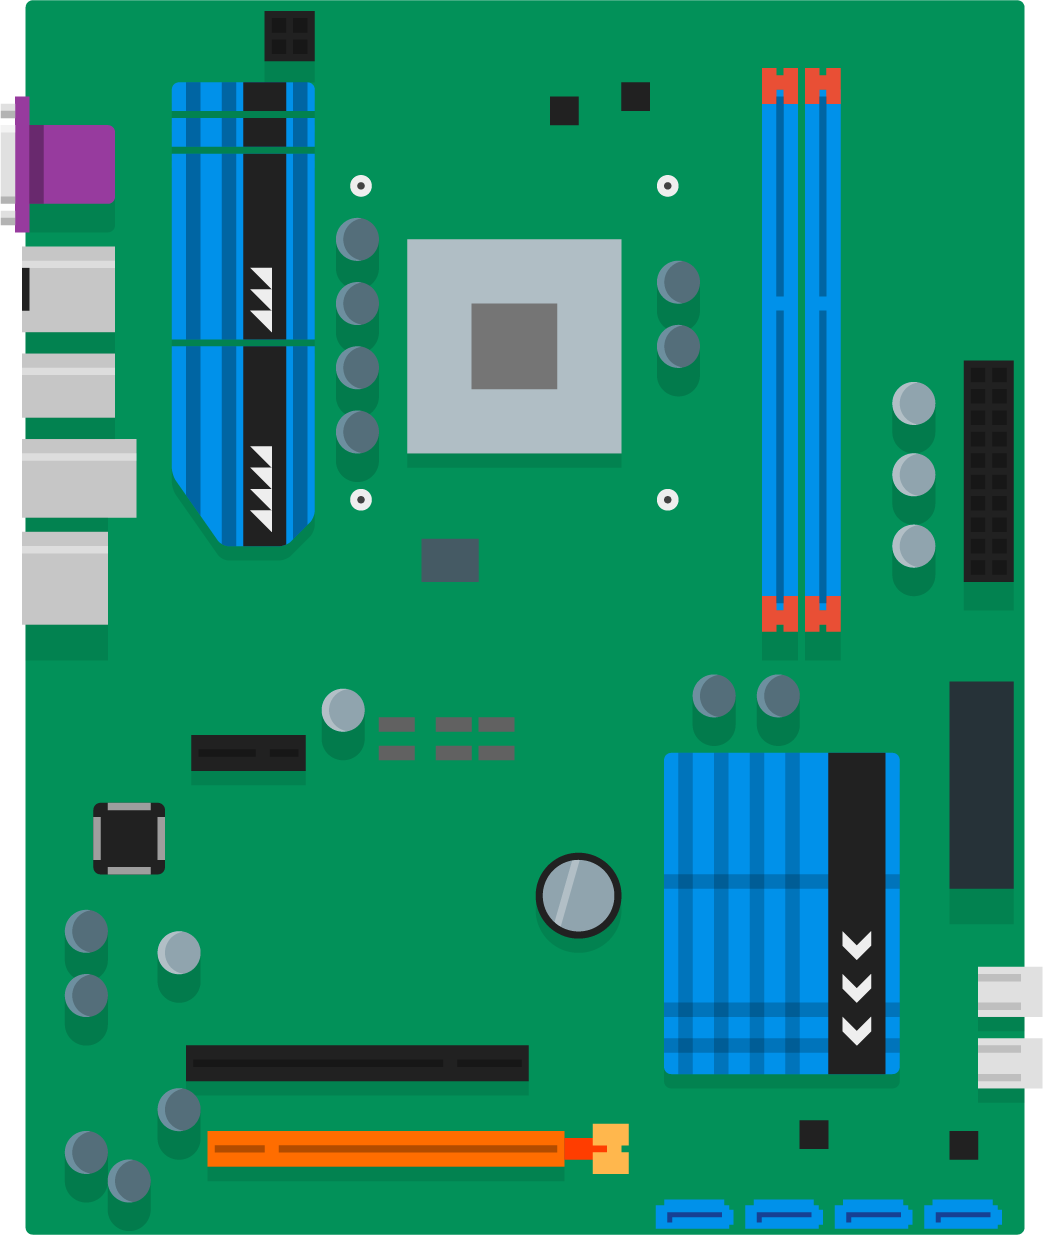
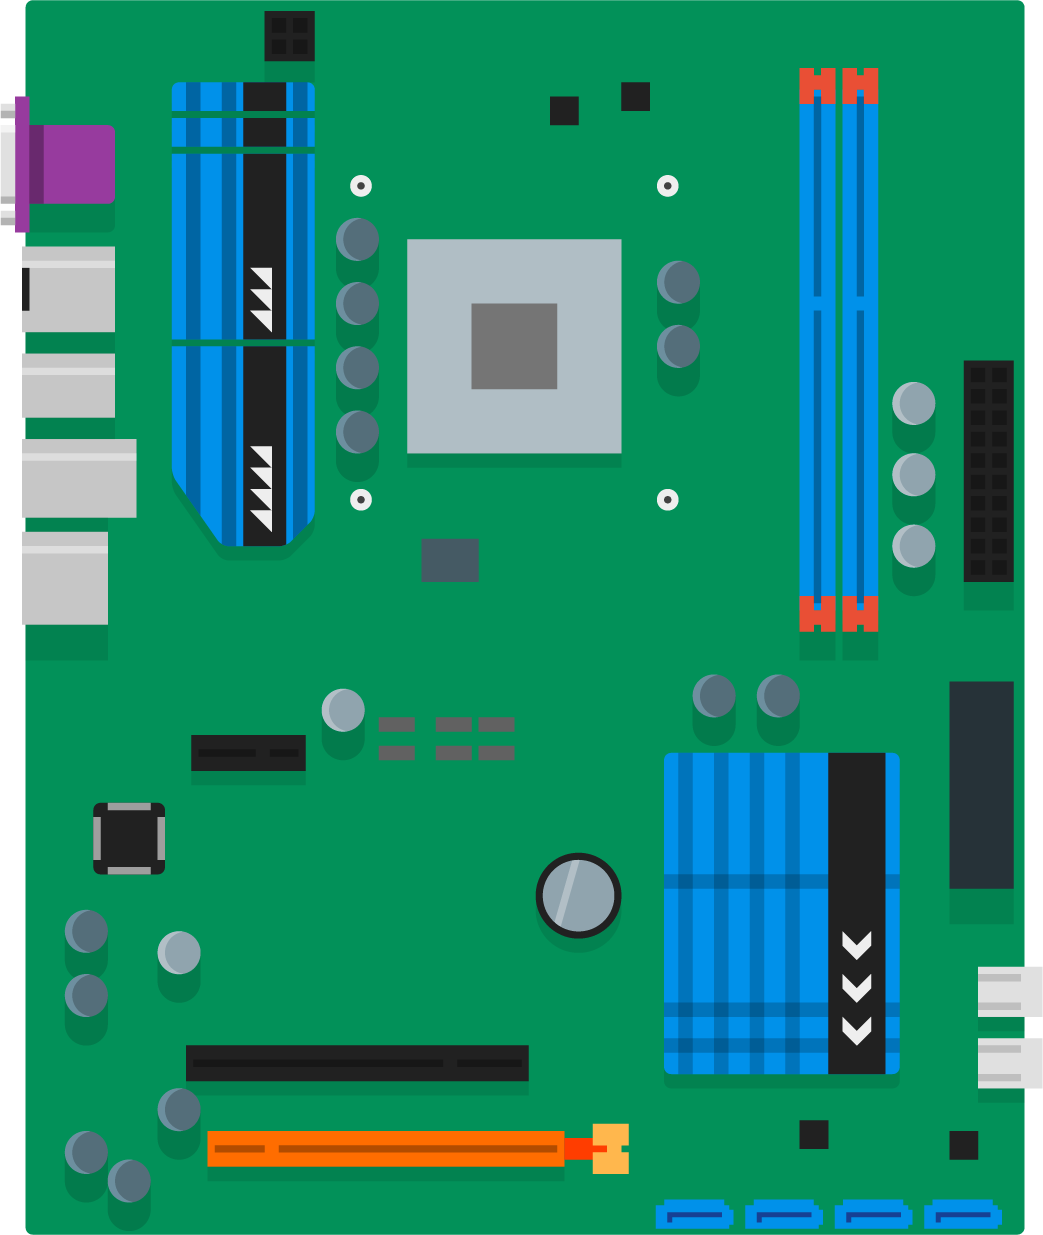
delete local storage sava zone, cooler zone

Changed region(s): [[0.7057, 0.0308, 0.8591, 0.5231]]

diff --git a/assets/js/visualHardware.js b/assets/js/visualHardware.js
@@ -11,13 +11,13 @@ const pcMode = () => {
    const cooler = document.getElementById('cooler');
    cooler.className = 'coolerPcMode';
 
-   const ram1 = document.getElementById('ram1');
+   const ram1 = document.getElementById('ram_1');
    ram1.className = 'ram1PcMode';
 
-   const ram2 = document.getElementById('ram2');
+   const ram2 = document.getElementById('ram_2');
    ram2.className = 'ram2PcMode';
 
-   const pciExpress1 = document.getElementById('pciExpress1');
+   const pciExpress1 = document.getElementById('pciExpress_1');
    pciExpress1.className = 'pciExpress1PcMode';
 
    const m2 = document.getElementById('m2');
@@ -43,13 +43,13 @@ const motherboardMode = () => {
       const cooler = document.getElementById('cooler');
       cooler.className = 'cooler';
 
-      const ram1 = document.getElementById('ram1');
+      const ram1 = document.getElementById('ram_1');
       ram1.className = 'ram1';
 
-      const ram2 = document.getElementById('ram2');
+      const ram2 = document.getElementById('ram_2');
       ram2.className = 'ram2';
 
-      const pciExpress1 = document.getElementById('pciExpress1');
+      const pciExpress1 = document.getElementById('pciExpress_1');
       pciExpress1.className = 'pciExpress1';
 
       const m2 = document.getElementById('m2');
@@ -94,13 +94,16 @@ const tradeDisplay = (displayDropMother, displayRemaining) => {
    mother.style.display = displayRemaining;
 };
 
-const coolerZone = () => {
-   const {motherBoard, cpu} = getBuildingPC();
-   if (motherBoard, cpu) {
-      const coolerSection = document.getElementById('cooler');
-      coolerSection.style.display = 'inline';
-   } else {
-      const coolerSection = document.getElementById('cooler');
+const coolerZone = (titleTab) => {
+   const {cpu, cooler} = getBuildingPC();
+   console.log(titleTab);
+   const coolerSection = document.getElementById('cooler');
+
+   if (cooler && cpu) coolerSection.style.display = 'inline';
+   else {
       coolerSection.style.display = 'none';
+      if (cpu && titleTab === 'coolerTab') {
+         coolerSection.style.display = 'inline';
+      }
    }
 };

diff --git a/index.html b/index.html
@@ -36,12 +36,12 @@
    <div class="main">
       <div  class="hardware">
          <div id='mother' class='mother'>
-            <section id='cpu' ondrop="drop(event)" ondragover="allowDrop(event)" class="cpu"></section>
-            <section id='cooler' ondrop="drop(event)" ondragover="allowDrop(event)" class="cooler"></section>
-            <section id='ram1' ondrop="drop(event)" ondragover="allowDrop(event)" class="ram1"></section>
-            <section id='ram2' ondrop="drop(event)" ondragover="allowDrop(event)" class="ram2"></section>
-            <section id='pciExpress1' ondrop="drop(event)" ondragover="allowDrop(event)" class="pciExpress1"></section>
-            <section id='m2' ondrop="drop(event)" ondragover="allowDrop(event)" class="m2"></section>
+            <div id='cpu' ondrop="drop(event)" ondragover="allowDrop(event)" class="cpu"></div>
+            <div id='cooler' ondrop="drop(event)" ondragover="allowDrop(event)" class="cooler"></div>
+            <div id='ram_1' ondrop="drop(event)" ondragover="allowDrop(event)" class="ram1"></div>
+            <div id='ram_2' ondrop="drop(event)" ondragover="allowDrop(event)" class="ram2"></div>
+            <div id='pciExpress_1' ondrop="drop(event)" ondragover="allowDrop(event)" class="pciExpress1"></div>
+            <div id='m2' ondrop="drop(event)" ondragover="allowDrop(event)" class="m2"></div>
          </div>
 
          <div class='powerSupplySlot'>

diff --git a/assets/js/dragAndDrop/desktop.js b/assets/js/dragAndDrop/desktop.js
@@ -16,7 +16,7 @@ const drop = (event) => {
    if (piece.type === 'motherBoard') {
       installMotherboard(piece);
    } else {
-      if (event.target.id === piece.type) {
+      if (checkSlot(event.target.id, piece.type)) {
          switch (checkCompatibility(piece)) {
          case 'compatible':
             compatible(event, data, piece);
@@ -76,7 +76,6 @@ const dropSave = (event, typeTab) => {
 
    deleteBuildingPC(piece, typeTab);
    phantomDivRemove();
-   coolerZone();
 
    const titleTabs = Array.from(document.getElementsByClassName('titleTab'));
    disableTab(titleTabs);
@@ -91,3 +90,13 @@ const installMotherboard = (piece) => {
    disableTab(titleTabs);
 };
 
+const checkSlot = (idSection, type) => {
+   let answer = false;
+
+   if (idSection.slice(idSection.length-2, idSection.length-1) === '_') {
+      const id = idSection.slice(0, idSection.length-2);
+      if (id === type) answer = true;
+   } else if (idSection === type) answer = true;
+
+   return answer;
+};

diff --git a/assets/css/hardware.css b/assets/css/hardware.css
@@ -50,21 +50,23 @@
 
 .cooler {
    display: none;
+   z-index: 2000;
    grid-column: 81 / 120;
    grid-row: 28 / 86;
    background-color: rgba(128, 121, 223, 0.514);
 }
 
+
 .ram1 {
-   grid-column: 129 / 133;
+   grid-column: 133 / 137;
    grid-row: 17 / 99;
-   background-color: rgba(180, 238, 183, 0.8);
+   background-color: rgba(149, 236, 154, 0.329);
 }
 
 .ram2 {
-   grid-column: 134 / 138;
+   grid-column: 138 / 142;
    grid-row: 17 / 99;
-   background-color: rgba(149, 236, 154, 0.329);
+   background-color: rgba(180, 238, 183, 0.8);
 }
 
 .pciExpress1 {

diff --git a/assets/js/tab.js b/assets/js/tab.js
@@ -5,13 +5,14 @@ const openTab = (event, hardware) => {
    const titleTabs = Array.from(document.getElementsByClassName('titleTab'));
 
    tabs.map((element) => element.style.display = 'none');
-
+   // retirar active em todas as tabs
    titleTabs.map((element) => {
       element.className = element.className.replace(' active', '');
    });
 
    document.getElementById(hardware).style.display = 'block';
    event.currentTarget.className += ' active';
+   coolerZone(hardware);
    index(hardware);
 };
 

diff --git a/assets/js/data/db.js b/assets/js/data/db.js
@@ -253,7 +253,16 @@ const pieces = [
 ];
 
 const getPieces = (type) => {
-   return pieces.filter((element) => element.type === type);
+   const buildingPC = getBuildingPC();
+   return pieces.filter((element) => {
+      let piece = element.type === type ? element : null;
+      if (piece) {
+         if (JSON.stringify(piece) === JSON.stringify(buildingPC[type])) {
+            piece = null;
+         }
+      }
+      return piece;
+   });
 };
 
 

diff --git a/assets/js/data/localStorage.js b/assets/js/data/localStorage.js
@@ -27,9 +27,10 @@ const generateBody = () => {
 };
 
 const deleteBuildingPC = (deletePiece, type) => {
-   let myPC;
    // eslint-disable-next-line prefer-const
-   myPC = getBuildingPC();
+   let myPC = getBuildingPC();
+   console.log(`deletePiece: ${deletePiece}`);
+   console.log(`type: ${type}`);
    if (JSON.stringify(myPC[type]) === JSON.stringify(deletePiece)) {
       myPC[type] = null;
    }

diff --git a/assets/js/helper/createTag.js b/assets/js/helper/createTag.js
@@ -22,6 +22,7 @@ const imageZone = (imageDir, infoImg, piece) => {
    const imageTag = document.createElement('img');
    imageTag.src = imageDir;
    imageTag.alt = infoImg;
+   imageTag.className = 'imagePiece';
 
    // add drag and drop
    imageTag.draggable = true;

diff --git a/assets/css/lateralMenu.css b/assets/css/lateralMenu.css
@@ -137,12 +137,11 @@
    justify-content: center;
 }
 
-.hardwareItem img {
+.imagePiece{
    border-radius: 5px;
-   height: 95%;
-   width: 95%;
+   height: 100%;
+   width: 100%;
 }
-
 .HardwareItemBody {
    display: flex;
    flex-direction: column;

diff --git a/assets/js/helper/cutId.js b/assets/js/helper/cutId.js
@@ -3,3 +3,4 @@
 const cutId = (string) => {
    return string.slice(0, -3);
 };
+
